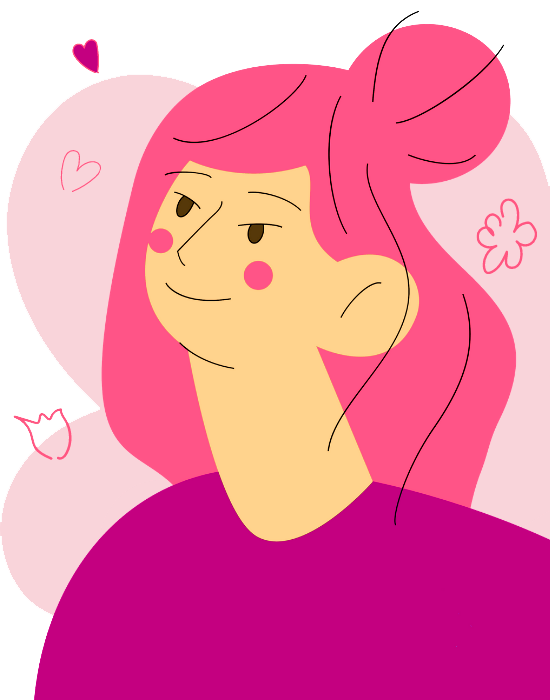
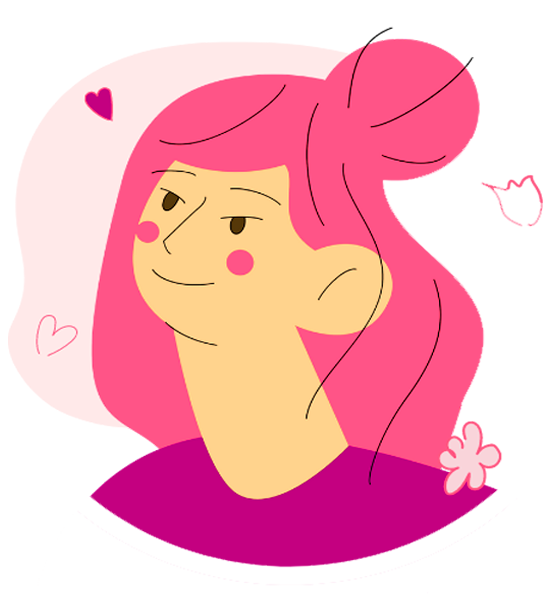
le hice una revision total al documento, saque estilos innesearios, cambie la forma y tamaño de la imagen principal

diff --git a/style.css b/style.css
@@ -2,46 +2,12 @@
 body {
     font-family: 'Montserrat', sans-serif;
     color: #4B4B55;
-    background-color: #EFE2E9;
     margin: 0px;
-    display: flex;
-    flex-direction: column;
     overflow-x: hidden;
 }
 
 
-/*comportamiento de links barra nav seccion y footer*/
-
-nav,
-section,
-footer,
-a:link {
-    text-decoration: none;
-    color: #4B4B55;
-}
-
-nav,
-section,
-footer,
-a:visited {
-    color: #4B4B55;
-}
-
-nav,
-section,
-footer,
-a:hover {
-    color: #F28C8E;
-}
-
-
 /*barra de navegacion*/
-
-nav {
-    width: 25%;
-    height: auto;
-    padding: 5px;
-}
 
 .nav-bar {
     display: flex;
@@ -49,10 +15,13 @@ nav {
     list-style-type: none;
     font-weight: 700;
     font-size: 15px;
+    background-color: #EFE2E9;
+    margin: 0px;
+    padding: 20px;
 }
 
 li {
-    margin-right: 35px;
+    margin-right: 30px;
 }
 
 
@@ -81,18 +50,27 @@ li {
 
 /*seccion principal*/
 
+
+/*imagen solopara media query*/
+
+#img-media-query {
+    display: none;
+}
+
 .container-principal-section {
     width: 100%;
-    height: auto;
+    height: 600px;
     display: flex;
-    justify-content: space-between;
+    align-items: center;
+    justify-content: center;
+    background-color: #EFE2E9;
 }
 
 .text-content-principal-section {
-    height: 300px;
-    width: 450px;
-    padding-top: 120px;
-    padding-left: 80px;
+    width: 50%;
+    height: auto;
+    display: flex;
+    flex-direction: column;
 }
 
 .text-content-principal-section h2 {
@@ -107,28 +85,15 @@ li {
     color: #4B4B55;
 }
 
-
-/*imagen solopara media query*/
-
-#img-media-query {
-    display: none;
-}
-
 #subtitle {
-    font-weight: 700;
     font-size: 25px;
+    font-weight: 700;
     font-family: 'Satisfy', cursive;
-    margin: 0px;
     /*copie y pegue de internet un estilo fachero de degradado de texto*/
     background: -webkit-linear-gradient(left top, #DA86A9, #F28C8E);
     background: linear-gradient(to bottom right, #DA86A9, #F28C8E);
     -webkit-background-clip: text;
     -webkit-text-fill-color: transparent;
-}
-
-.img-principal-section img {
-    height: 600px;
-    width: 500px;
 }
 
 
@@ -141,22 +106,12 @@ li {
     display: flex;
     flex-direction: column;
     align-items: center;
-    padding-bottom: 40px;
-    padding-top: 10px;
     text-align: center;
-}
-
-.text-skills-section {
-    display: flex;
-    flex-direction: column;
+    padding-bottom: 15px;
 }
 
 .text-skills-section h1 {
     font-weight: 800;
-}
-
-#title-media-query {
-    display: none;
 }
 
 .text-skills-section h3 {
@@ -164,7 +119,8 @@ li {
 }
 
 .icons-skills-section {
-    width: 50%;
+    width: 600px;
+    height: auto;
     display: flex;
     justify-content: center;
     flex-wrap: wrap;
@@ -184,23 +140,20 @@ li {
 .quote-section {
     width: 100%;
     height: auto;
-    color: white;
     display: flex;
     flex-direction: column;
-    justify-content: center;
-    align-content: center;
     align-items: center;
-    padding-top: 50px;
-    padding-bottom: 50px;
+    text-align: center;
+    padding: 20px;
+    color: white;
     /*estilo fachero de fondo de la seccion quote*/
     background-image: linear-gradient(to bottom, #ff5487, #f14485, #e33283, #d41f82, #c40080);
 }
 
 .quote-section p {
-    font-size: 30px;
     font-family: 'Satisfy', cursive;
-    text-align: center;
-    display: flex;
+    font-size: 30px;
+    margin-bottom: 0px;
 }
 
 
@@ -212,23 +165,23 @@ li {
     background-color: white;
     display: flex;
     flex-direction: column;
+    justify-content: center;
     align-items: center;
     text-align: center;
-    padding-top: 10px;
-    padding-bottom: 50px;
+    padding-bottom: 35px;
 }
 
 .projects-section h1 {
     font-weight: 800;
+    display: flex;
+    justify-content: center;
 }
 
 .bar-projects {
     width: 50%;
     height: auto;
     display: flex;
-    align-items: center;
     justify-content: center;
-    padding-top: 20px;
 }
 
 .bar-projects button {
@@ -270,6 +223,7 @@ footer {
 .footer-bar {
     font-weight: 400;
     display: flex;
+    background-color: transparent;
 }
 
 
@@ -280,6 +234,31 @@ footer {
     align-items: center;
     list-style-type: none;
     font-size: 30px;
+}
+
+
+/*comportamiento de links barra nav seccion y footer*/
+
+nav,
+section,
+footer,
+a:link {
+    text-decoration: none;
+    color: #4B4B55;
+}
+
+nav,
+section,
+footer,
+a:visited {
+    color: #4B4B55;
+}
+
+nav,
+section,
+footer,
+a:hover {
+    color: #F28C8E;
 }
 
 
@@ -317,7 +296,7 @@ footer a:hover {
         padding-left: 0px;
     }
     .text-content-principal-section h2 {
-        font-size: 25px;
+        font-size: 20px;
         margin: 0px;
     }
     .text-content-principal-section h1 {
@@ -333,7 +312,6 @@ footer a:hover {
         width: 100%;
         height: auto;
     }
-    #subtitle {}
     .container-principal-section a {
         display: flex;
         justify-content: center;
@@ -355,11 +333,9 @@ footer a:hover {
         width: 100%;
         height: auto;
         padding-right: 20px;
+        background-color: #EFE2E9;
     }
-    .skills-section,
-    .quote-section,
-    .projects-section,
-    #contact-me {
-        width: 100%;
+    #subtitle {
+        font-size: 20px;
     }
 }

diff --git a/index.html b/index.html
@@ -10,6 +10,7 @@
 </head>
 
 <body>
+
     <!-- barra de navegacion -->
     <nav>
         <ul class="nav-bar">
@@ -34,16 +35,18 @@
         </a>
     </div>
 
+
     <!-- seccion principal -->
     <section class="container-principal-section">
         <!-- texto de la seccion principal-->
         <div class="text-content-principal-section">
             <h2>HOLA! SOY JENIFFER H.</h2>
             <h1>DESARRO-<br />LLADORA</h1>
+            <!-- imagen solo de media query -->
             <div id="img-media-query">
                 <img src="./img/desarrolladora-query.png" alt="">
             </div>
-            <p id="subtitle">Amante de la Medicina, el Diseño y Narradora Compulsiva de Historias..!</p>
+            <p id="subtitle">Amante de la Medicina, el Diseño <br/>y Narradora Compulsiva de Historias..!</p>
             <a href="#skills">
                 <p class="dark-buttom">LO QUE HAGO</p>
             </a>
@@ -53,7 +56,6 @@
             <img src="./img/img-yo.png" alt="">
         </div>
     </section>
-
 
     <!-- seccion skills -->
     <div class="skills-section" id="skills">
@@ -94,7 +96,6 @@
             </div>
         </div>
     </div>
-
     <!-- seccion de frase memorable -->
     <div class="quote-section">
         <p>"Lorem ipsum dolor, sit amet consectetur adipisicing elit. Eligendi quaerat aspernatur <br />laboriosam doloremque iste perspiciatis veniam culpa beatae magni quo natus nostrum, laudantium
@@ -146,7 +147,6 @@
             </div>
         </div>
     </div>
-
     <!-- seccion de contacto barra de nav secundaria -->
     <footer id="contact-me">
         <ul class="nav-bar footer-bar">
@@ -184,6 +184,7 @@
             </ul>
         </div>
     </footer>
+
 </body>
 
 </html>
